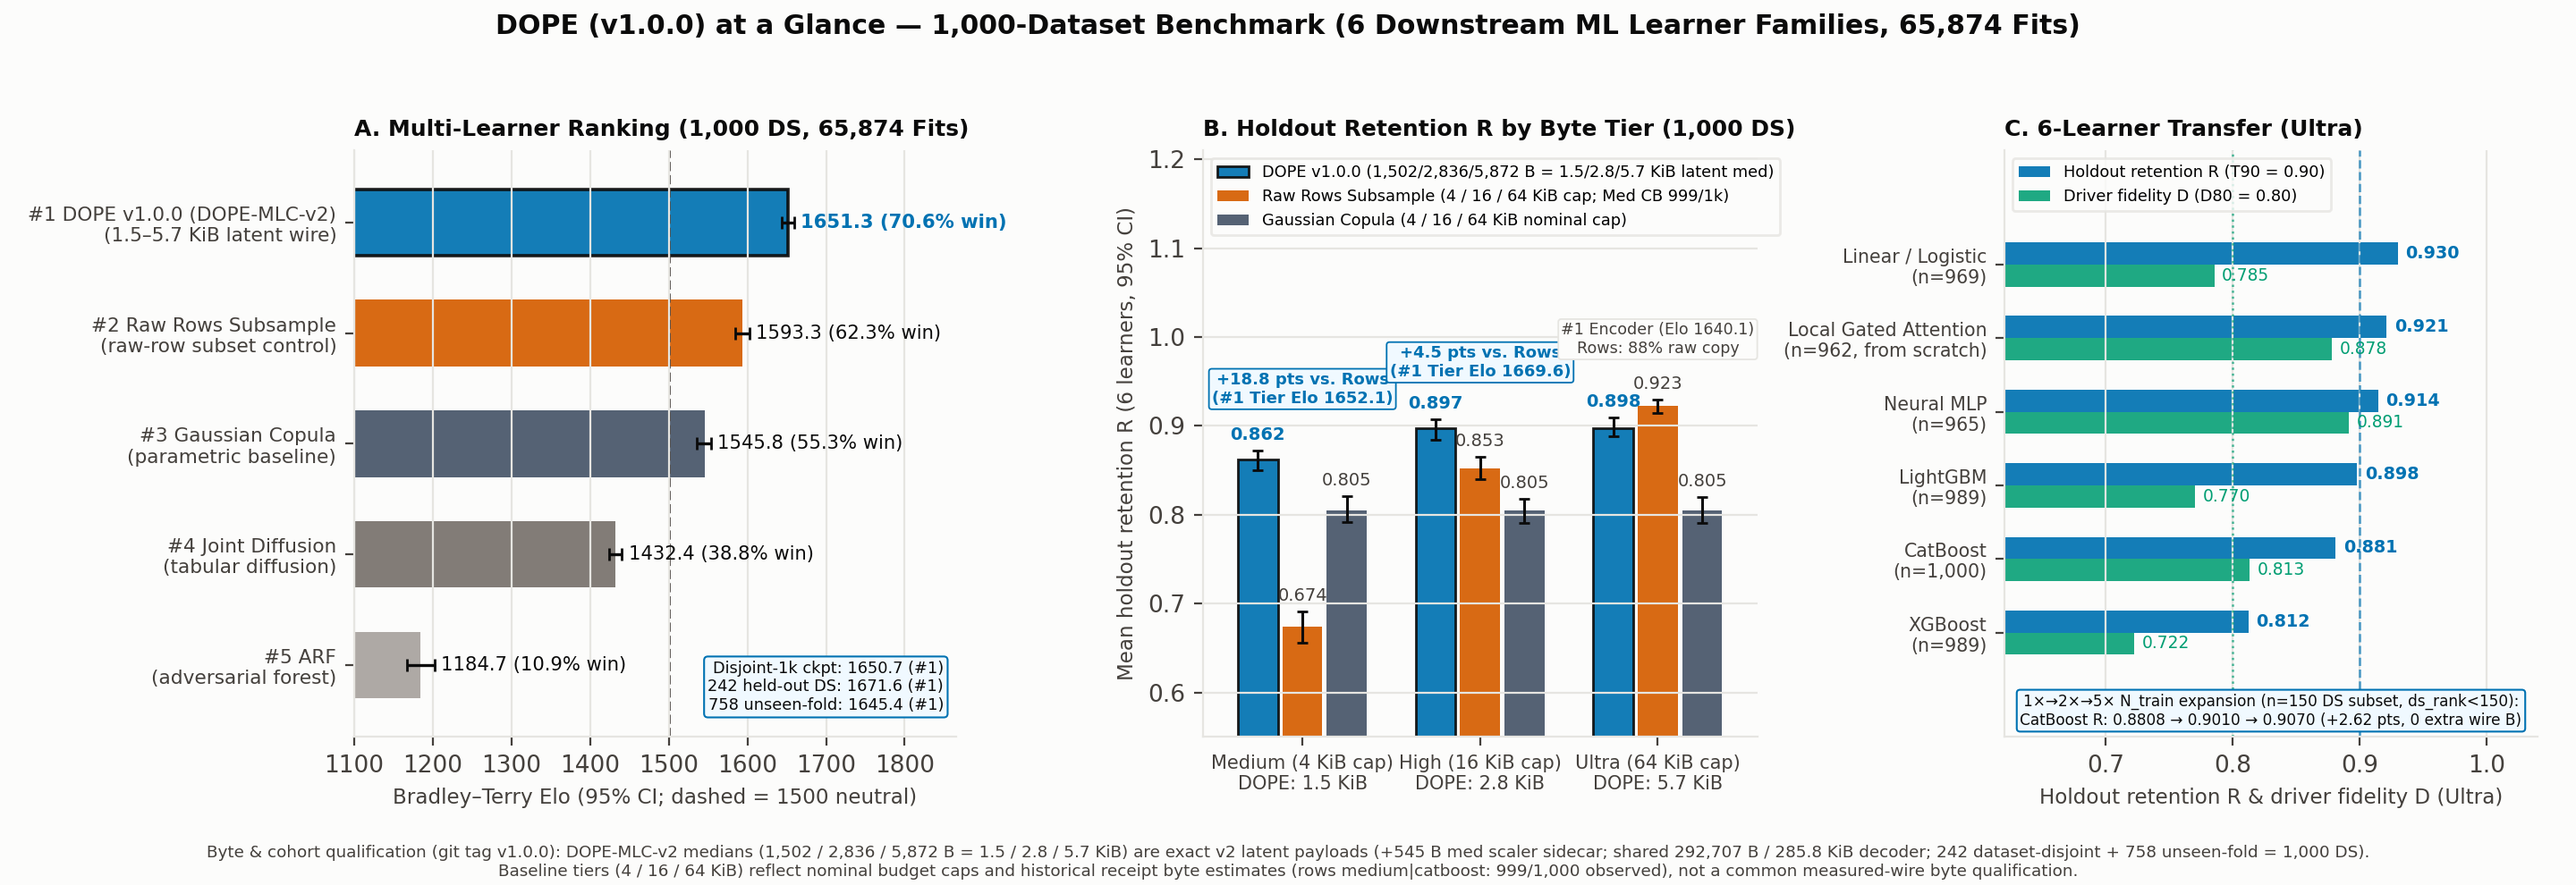
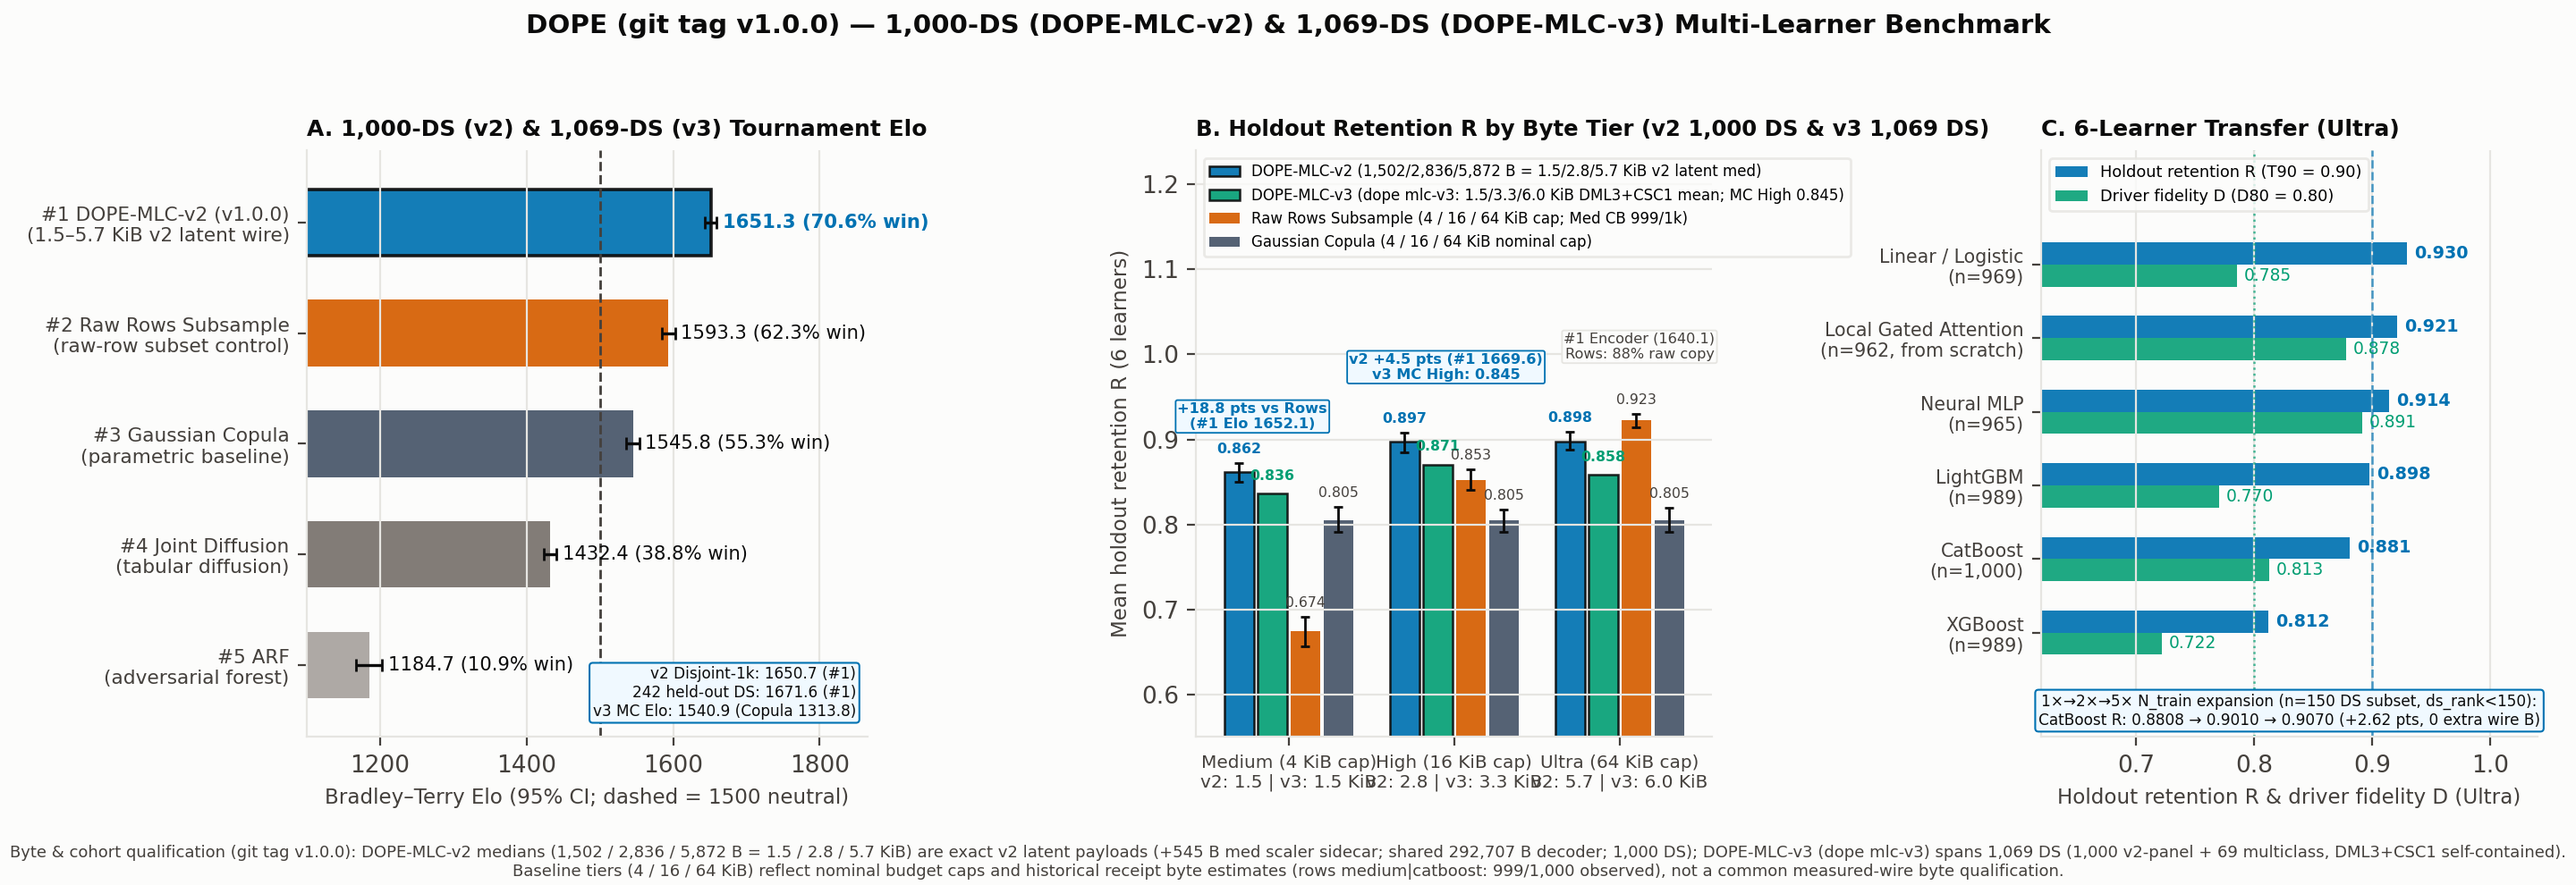
fix(security,docs): bump zstd to 0.14.3 for RUSTSEC-2026-0391/0398/0403 and bind v2/v3 receipts in hero.png

diff --git a/bench/real-world/render.py b/bench/real-world/render.py
@@ -62,19 +62,22 @@ def kib_ticks(ax, lo: float, hi: float) -> None:
 
 
 def hero_readme(plt):
-    """3-panel publication hero on 1,000 datasets for README hero.png: (A) Elo leaderboard, (B) retention by byte tier, (C) 6-auditor transfer & 150-DS 1x->5x expansion."""
+    """3-panel publication hero on 1,000 (v2) & 1,069 (v3) datasets for README hero.png: (A) Elo leaderboard, (B) retention by byte tier, (C) 6-auditor transfer & 150-DS 1x->5x expansion."""
     import numpy as np
     snap = multilevel_convergence_data()
     vs = snap["value_and_testing_scale_summary"]
     lb = [r for r in vs["v2_overall_elo_1000ds"] if r["method"] != "kernel"]
     v2_t = vs["v2_value_by_tier_1000ds"]
+    v3_t = vs["v3_value_by_role_and_tier_1069ds"]
+    v3_p, v3_mc = v3_t["eval_gradient_disjoint_v2_panel"], v3_t["eval_gradient_disjoint_multiclass_panel"]
     tiers = ("medium", "high", "ultra")
     med_b = [int(v2_t[t]["exact_v2_latent_wire_median_bytes"]) for t in tiers]
     med_kib = [b / 1024.0 for b in med_b]
+    v3_kib = [v3_p[t]["mean_dml3_complete_wire_bytes"] / 1024.0 for t in tiers]
     study_txt = (ROOT / "docs/multilevel-landmark-dl-study.md").read_text()
     fig, (ax_a, ax_b, ax_c) = plt.subplots(1, 3, figsize=(14.4, 4.95), gridspec_kw={"width_ratios": [1.14, 1.05, 1.01]})
-    fig.suptitle("DOPE (v1.0.0) at a Glance — 1,000-Dataset Benchmark (6 Downstream ML Learner Families, 65,874 Fits)", fontsize=10.8, fontweight="bold", color=INK, y=0.985)
-    names = [f"#1 DOPE v1.0.0 (DOPE-MLC-v2)\n({med_kib[0]:.1f}–{med_kib[2]:.1f} KiB latent wire)",
+    fig.suptitle("DOPE (git tag v1.0.0) — 1,000-DS (DOPE-MLC-v2) & 1,069-DS (DOPE-MLC-v3) Multi-Learner Benchmark", fontsize=10.6, fontweight="bold", color=INK, y=0.985)
+    names = [f"#1 DOPE-MLC-v2 (v1.0.0)\n({med_kib[0]:.1f}–{med_kib[2]:.1f} KiB v2 latent wire)",
              "#2 Raw Rows Subsample\n(raw-row subset control)",
              "#3 Gaussian Copula\n(parametric baseline)", "#4 Joint Diffusion\n(tabular diffusion)", "#5 ARF\n(adversarial forest)"]
     colors = [BLUE, ORANGE, SLATE, GRAY, "#a8a29e"]
@@ -91,31 +94,38 @@ def hero_readme(plt):
     ax_a.grid(axis="y", visible=False)
     for i, r in enumerate(lb):
         ax_a.text(r["elo_ci95_high"] + 8.0, y_pos[i], f"{r['elo']:.1f} ({100.0 * r['win_share']:.1f}% win)", va="center", ha="left", fontsize=7.6, fontweight="bold" if i == 0 else "normal", color=BLUE if i == 0 else INK)
-    ax_a.text(0.98, 0.04, "Disjoint-1k ckpt: 1650.7 (#1)\n242 held-out DS: 1671.6 (#1)\n758 unseen-fold: 1645.4 (#1)", transform=ax_a.transAxes, ha="right", va="bottom", fontsize=6.4, color=INK, bbox=dict(boxstyle="round,pad=0.24", facecolor="#f0f9ff", edgecolor=BLUE, lw=0.75))
+    ax_a.text(0.98, 0.03, "v2 Disjoint-1k: 1650.7 (#1)\n242 held-out DS: 1671.6 (#1)\nv3 MC Elo: 1540.9 (Copula 1313.8)", transform=ax_a.transAxes, ha="right", va="bottom", fontsize=6.1, color=INK, bbox=dict(boxstyle="round,pad=0.22", facecolor="#f0f9ff", edgecolor=BLUE, lw=0.75))
     ax_a.set_xlabel("Bradley–Terry Elo (95% CI; dashed = 1500 neutral)", fontsize=8.3)
-    ax_a.set_title("A. Multi-Learner Ranking (1,000 DS, 65,874 Fits)", loc="left", color=INK, fontsize=9.0, fontweight="bold")
-    x, w = np.arange(len(tiers)), 0.25
-    dope_lbl = f"DOPE v1.0.0 ({med_b[0]:,}/{med_b[1]:,}/{med_b[2]:,} B = {med_kib[0]:.1f}/{med_kib[1]:.1f}/{med_kib[2]:.1f} KiB latent med)"
-    for key, label, col, offset in (("dope", dope_lbl, BLUE, -w), ("rows", "Raw Rows Subsample (4 / 16 / 64 KiB cap; Med CB 999/1k)", ORANGE, 0.0), ("copula", "Gaussian Copula (4 / 16 / 64 KiB nominal cap)", SLATE, w)):
-        means = [v2_t[t][f"{key}_mean_retention_R"] for t in tiers]
-        lo = [means[i] - v2_t[t][f"{key}_retention_R_ci95"][0] for i, t in enumerate(tiers)]
-        hi = [v2_t[t][f"{key}_retention_R_ci95"][1] - means[i] for i, t in enumerate(tiers)]
-        rects = ax_b.bar(x + offset, means, w * 0.90, yerr=[lo, hi], color=col, alpha=0.92, label=label, error_kw=dict(ecolor=INK, lw=1.1, capsize=2.2))
-        for rect in (rects if key == "dope" else ()):
+    ax_a.set_title("A. 1,000-DS (v2) & 1,069-DS (v3) Tournament Elo", loc="left", color=INK, fontsize=9.0, fontweight="bold")
+    x, w = np.arange(len(tiers)), 0.20
+    dope_v2_lbl = f"DOPE-MLC-v2 ({med_b[0]:,}/{med_b[1]:,}/{med_b[2]:,} B = {med_kib[0]:.1f}/{med_kib[1]:.1f}/{med_kib[2]:.1f} KiB v2 latent med)"
+    dope_v3_lbl = f"DOPE-MLC-v3 (dope mlc-v3: {v3_kib[0]:.1f}/{v3_kib[1]:.1f}/{v3_kib[2]:.1f} KiB DML3+CSC1 mean; MC High {v3_mc['high']['receiver_csc1_raw_6aud_mean_clipped_R']:.3f})"
+    for key, label, col, offset in (("dope", dope_v2_lbl, BLUE, -1.5 * w), ("v3", dope_v3_lbl, TEAL, -0.5 * w), ("rows", "Raw Rows Subsample (4 / 16 / 64 KiB cap; Med CB 999/1k)", ORANGE, 0.5 * w), ("copula", "Gaussian Copula (4 / 16 / 64 KiB nominal cap)", SLATE, 1.5 * w)):
+        if key == "v3":
+            means = [v3_p[t]["receiver_csc1_raw_6aud_mean_clipped_R"] for t in tiers]
+            lo, hi = [0.0] * len(tiers), [0.0] * len(tiers)
+            rects = ax_b.bar(x + offset, means, w * 0.88, color=col, alpha=0.90, label=label)
+        else:
+            means = [v2_t[t][f"{key}_mean_retention_R"] for t in tiers]
+            lo = [means[i] - v2_t[t][f"{key}_retention_R_ci95"][0] for i, t in enumerate(tiers)]
+            hi = [v2_t[t][f"{key}_retention_R_ci95"][1] - means[i] for i, t in enumerate(tiers)]
+            rects = ax_b.bar(x + offset, means, w * 0.88, yerr=[lo, hi], color=col, alpha=0.92, label=label, error_kw=dict(ecolor=INK, lw=1.0, capsize=1.8))
+        for rect in (rects if key in ("dope", "v3") else ()):
             rect.set_edgecolor(INK)
-            rect.set_linewidth(1.0)
+            rect.set_linewidth(0.9)
         for i, m in enumerate(means):
-            ax_b.text(x[i] + offset, m + hi[i] + 0.008, f"{m + 1e-9:.3f}", ha="center", va="bottom", fontsize=7.0, fontweight="bold" if key == "dope" else "normal", color=BLUE if key == "dope" else INK2)
-    ax_b.text(0.0, 0.922, "+18.8 pts vs. Rows\n(#1 Tier Elo 1652.1)", ha="center", va="bottom", fontsize=6.5, fontweight="bold", color=BLUE, bbox=dict(boxstyle="round,pad=0.18", facecolor="#f0f9ff", edgecolor=BLUE, lw=0.65))
-    ax_b.text(1.0, 0.952, "+4.5 pts vs. Rows\n(#1 Tier Elo 1669.6)", ha="center", va="bottom", fontsize=6.5, fontweight="bold", color=BLUE, bbox=dict(boxstyle="round,pad=0.18", facecolor="#f0f9ff", edgecolor=BLUE, lw=0.65))
-    ax_b.text(2.0, 0.978, "#1 Encoder (Elo 1640.1)\nRows: 88% raw copy", ha="center", va="bottom", fontsize=6.3, color=INK2, bbox=dict(boxstyle="round,pad=0.18", facecolor=SURFACE, edgecolor=GRID, lw=0.65))
-    ax_b.set_xticks(x, [f"Medium (4 KiB cap)\nDOPE: {med_kib[0]:.1f} KiB", f"High (16 KiB cap)\nDOPE: {med_kib[1]:.1f} KiB", f"Ultra (64 KiB cap)\nDOPE: {med_kib[2]:.1f} KiB"], fontsize=7.5)
+            pad = 0.013 if key == "v3" else 0.008
+            ax_b.text(x[i] + offset, m + hi[i] + pad, f"{m + 1e-9:.3f}", ha="center", va="bottom", fontsize=5.7, fontweight="bold" if key in ("dope", "v3") else "normal", color=BLUE if key == "dope" else (TEAL if key == "v3" else INK2))
+    ax_b.text(-0.22, 0.910, "+18.8 pts vs Rows\n(#1 Elo 1652.1)", ha="center", va="bottom", fontsize=5.8, fontweight="bold", color=BLUE, bbox=dict(boxstyle="round,pad=0.13", facecolor="#f0f9ff", edgecolor=BLUE, lw=0.65))
+    ax_b.text(0.95, 0.968, "v2 +4.5 pts (#1 1669.6)\nv3 MC High: 0.845", ha="center", va="bottom", fontsize=5.8, fontweight="bold", color=BLUE, bbox=dict(boxstyle="round,pad=0.13", facecolor="#f0f9ff", edgecolor=BLUE, lw=0.65))
+    ax_b.text(2.12, 0.992, "#1 Encoder (1640.1)\nRows: 88% raw copy", ha="center", va="bottom", fontsize=5.8, color=INK2, bbox=dict(boxstyle="round,pad=0.13", facecolor=SURFACE, edgecolor=GRID, lw=0.65))
+    ax_b.set_xticks(x, [f"Medium (4 KiB cap)\nv2: {med_kib[0]:.1f} | v3: {v3_kib[0]:.1f} KiB", f"High (16 KiB cap)\nv2: {med_kib[1]:.1f} | v3: {v3_kib[1]:.1f} KiB", f"Ultra (64 KiB cap)\nv2: {med_kib[2]:.1f} | v3: {v3_kib[2]:.1f} KiB"], fontsize=7.2)
     ax_b.set_xlim(-0.56, 2.56)
-    ax_b.set_ylim(0.55, 1.21)
+    ax_b.set_ylim(0.55, 1.24)
     ax_b.grid(axis="x", visible=False)
-    ax_b.set_ylabel("Mean holdout retention R (6 learners, 95% CI)", fontsize=8.3)
-    ax_b.set_title("B. Holdout Retention R by Byte Tier (1,000 DS)", loc="left", color=INK, fontsize=9.0, fontweight="bold")
-    ax_b.legend(frameon=True, facecolor=SURFACE, edgecolor=GRID, fontsize=6.4, loc="upper left")
+    ax_b.set_ylabel("Mean holdout retention R (6 learners)", fontsize=8.3)
+    ax_b.set_title("B. Holdout Retention R by Byte Tier (v2 1,000 DS & v3 1,069 DS)", loc="left", color=INK, fontsize=8.8, fontweight="bold")
+    ax_b.legend(frameon=True, facecolor=SURFACE, edgecolor=GRID, fontsize=6.0, loc="upper left")
     aud_specs = [
         ("Linear / Logistic\n(n=969)", r"\| \*\*Linear / Logistic\*\* \| `969` \| `[\d.]+` \| `[\d.]+` \| \*\*`([\d.]+)`", r"\| \*\*Linear / Logistic\*\* \| `969` \| .*? \| \*\*`[\d.]+` `\[[^\]]+\]`\*\* \| \*\*`([\d.]+)`"),
         ("Local Gated Attention\n(n=962, from scratch)", r"\| \*\*Local Gated Attention Net \(`kumo_tabpfn` key\)\*\* \| `962` \| `[\d.]+` \| `[\d.]+` \| \*\*`([\d.]+)`", r"\| \*\*Local Gated Attention Net \(`kumo_tabpfn` key\)\*\* \| `962` \| .*? \| \*\*`[\d.]+` `\[[^\]]+\]`\*\* \| \*\*`([\d.]+)`"),
@@ -144,7 +154,7 @@ def hero_readme(plt):
     ax_c.set_title("C. 6-Learner Transfer (Ultra)", loc="left", color=INK, fontsize=9.0, fontweight="bold")
     ax_c.legend(frameon=True, facecolor=SURFACE, edgecolor=GRID, fontsize=6.4, loc="upper left")
     dec_b = int(_study_val(study_txt, r"frozen `(\d+,\d+) B` decoder").replace(",", ""))
-    fig.text(0.5, 0.006, f"Byte & cohort qualification (git tag v1.0.0): DOPE-MLC-v2 medians ({med_b[0]:,} / {med_b[1]:,} / {med_b[2]:,} B = {med_kib[0]:.1f} / {med_kib[1]:.1f} / {med_kib[2]:.1f} KiB) are exact v2 latent payloads (+545 B med scaler sidecar; shared {dec_b:,} B / {dec_b / 1024.0:.1f} KiB decoder; 242 dataset-disjoint + 758 unseen-fold = 1,000 DS).\nBaseline tiers (4 / 16 / 64 KiB) reflect nominal budget caps and historical receipt byte estimates (rows medium|catboost: 999/1,000 observed), not a common measured-wire byte qualification.", ha="center", va="bottom", fontsize=6.6, color=INK2)
+    fig.text(0.5, 0.006, f"Byte & cohort qualification (git tag v1.0.0): DOPE-MLC-v2 medians ({med_b[0]:,} / {med_b[1]:,} / {med_b[2]:,} B = {med_kib[0]:.1f} / {med_kib[1]:.1f} / {med_kib[2]:.1f} KiB) are exact v2 latent payloads (+545 B med scaler sidecar; shared {dec_b:,} B decoder; 1,000 DS); DOPE-MLC-v3 (dope mlc-v3) spans 1,069 DS (1,000 v2-panel + 69 multiclass, DML3+CSC1 self-contained).\nBaseline tiers (4 / 16 / 64 KiB) reflect nominal budget caps and historical receipt byte estimates (rows medium|catboost: 999/1,000 observed), not a common measured-wire byte qualification.", ha="center", va="bottom", fontsize=6.5, color=INK2)
     fig.tight_layout(rect=(0.0, 0.055, 0.995, 0.955))
     return fig
 
